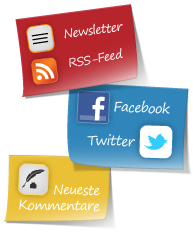
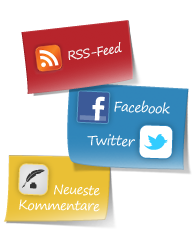
new postit images and upgrade step for portlet, refs #7531

Changed region(s): [[0.0622, 0.0, 0.7772, 0.4487]]

diff --git a/recensio/theme/upgrades.py b/recensio/theme/upgrades.py
@@ -1,5 +1,35 @@
+import logging
+import re
+
+from plone.portlets.interfaces import IPortletManager
+from plone.portlets.interfaces import IPortletAssignmentMapping
+from zope.component.hooks import getSite
+from zope.component import getUtility
+from zope.component import getMultiAdapter
+
+log = logging.getLogger(__name__)
+
 PROFILE = 'profile-recensio.theme:default'
 
 
 def v1to2(portal_setup):
     portal_setup.runImportStepFromProfile(PROFILE, 'jsregistry')
+
+
+def v2to3(portal_setup):
+    old_re = '<area .*title="Newsletter"[^>]*>[\s]*'\
+             '<area .*title="RSS-Feed"[^>]*>'
+    new_str = '<area shape="poly" coords="30,90,135,75,128,25,22,35" '\
+              'title="RSS-Feed" alt="RSS-Feed" '\
+              'href="http://localhost:8010/recensio/RSS-feeds">'
+    portal = getSite()
+    frontpage = portal.get('front-page')
+    column = getUtility(IPortletManager,
+                        name=u'plone.rightcolumn',
+                        context=frontpage)
+    manager = getMultiAdapter((frontpage, column,), IPortletAssignmentMapping)
+    postit = manager.get('postit')
+    if postit is None:
+        log.warn('No postit portlet found, skipping upgrade')
+        return
+    postit.tal = re.sub(old_re, new_str, postit.tal)
